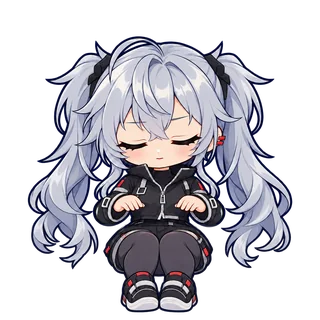
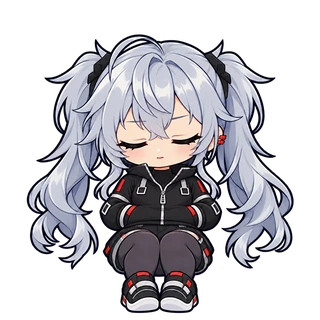
fix(tray): 睡眠立绘藏手，DeepSeek 袖口改为蓝色

Changed region(s): [[0.0625, 0.0938, 0.9375, 1.0]]

diff --git a/apps/tray/ART-SOURCES.md b/apps/tray/ART-SOURCES.md
@@ -8,6 +8,6 @@
 - `office/laptop-closed.webp`：非工作状态桌上合上的笔记本，按 `office/laptop.webp` 的配色和描边用脚本绘制，与其共用锚点；`office/desk.webp`、`office/boss-desk.webp` 的前挡板已镂空，露出桌下的腿和脚，并补画了两条后桌腿，前桌腿底部重画为直腿；`office/chair.webp` 补画了气杆、五星脚和轮子，桌下不再悬空。
 - `logo-default.svg`：没有专属标志的模型或 CLI 在笔记本盖子上使用的默认终端标志。
 
-角色按模型家族区分：claude、codex（GPT）、deepseek、gemini、glm、grok；没有专属形象的模型使用 `default`（「新同事」）。状态共 7 个：idle、blink、working、speaking、review、done、sleep。另有 3 个可选帧：`sad`（上次失败）、`walk-1`、`walk-2`（去会议室时的正面走路两帧，鞋底与坐姿对齐），只放 `s/` 与 `m/`；缺少时失败显示灰度 idle，走路改为坐姿滑行。7 个角色都已画了可选帧；idle、blink 也一并重画为看不到手（揣进口袋或缩进袖口），桌上只放合上的笔记本。
+角色按模型家族区分：claude、codex（GPT）、deepseek、gemini、glm、grok；没有专属形象的模型使用 `default`（「新同事」）。状态共 7 个：idle、blink、working、speaking、review、done、sleep。另有 3 个可选帧：`sad`（上次失败）、`walk-1`、`walk-2`（去会议室时的正面走路两帧，鞋底与坐姿对齐），只放 `s/` 与 `m/`；缺少时失败显示灰度 idle，走路改为坐姿滑行。7 个角色都已画了可选帧；idle、blink、sleep 也一并重画为看不到手（揣进口袋或缩进袖口），桌上只放合上的笔记本。
 
 设计参考了社区作品的比例与可爱程度，但造型、服装与配色均为原创，未使用各厂商的官方吉祥物。
